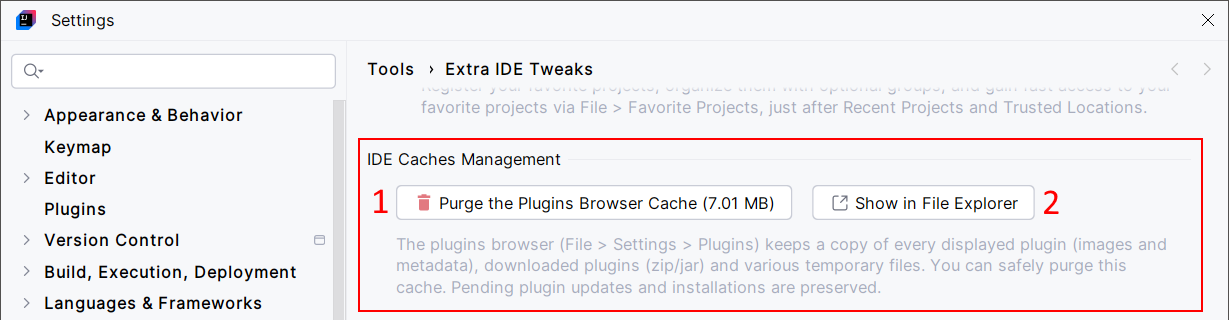
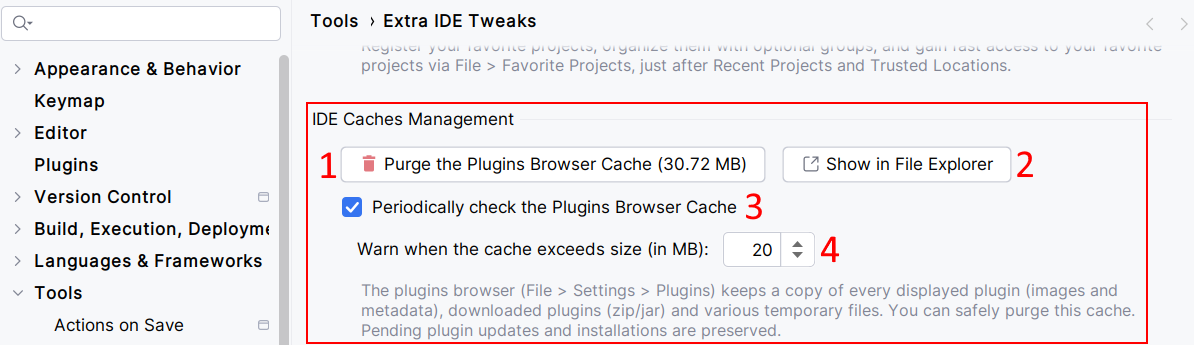
update doc for 2026.1.2 plugins

diff --git a/manual/topics/extra-ide-tweaks/Extra-IDE-Tweaks-IDE-Caches-Management.md b/manual/topics/extra-ide-tweaks/Extra-IDE-Tweaks-IDE-Caches-Management.md
@@ -9,11 +9,13 @@ The IDE Caches Management feature offers a convenient way to handle this issue.
 
 ## Configuration
 
-No configuration is needed.
+![](../../images/extra-ide-tweaks/extra-ide-tweaks-ide-caches-management-cfg.png){ width="750" }
 
 ## Usage
 
-![](../../images/extra-ide-tweaks/extra-ide-tweaks-ide-caches-management-cfg.png){ width="750" }
-
 1. Clear the IDE's plugins browser download cache.
 2. If you're curious, this opens the IDE's plugins browser download cache directory in your file manager.
+3. When selected, the IDE's plugins browser download cache will be checked on IDE start, then every 24 hours. If the cache is too large, a notification will offer you to clear the cache.
+4. When the checkbox (3.) is selected, the notification will show only if the cache size exceeds the specified size. Example: ![](../../images/extra-ide-tweaks/extra-ide-tweaks-ide-caches-management-notif.png){ width="340" style="block" }
+
+> The estimated size of the IDE's plugins browser download cache is smaller than the actual folder size, as some files are retained during cleanup: pending plugin installation files, as well as certain files that would be automatically recreated by the IDE: `brokenPlugins.json`, `brokenPlugins.json.etag`, `pluginsXMLIds.json`, and `pluginsXMLIds.json.etag`.
